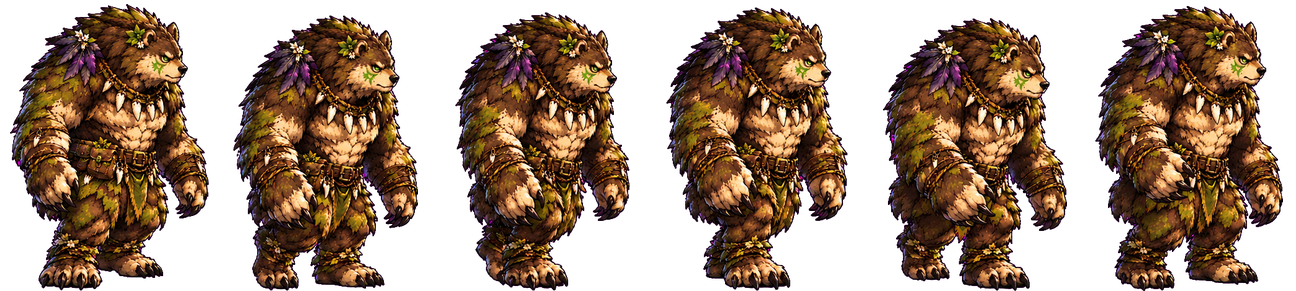
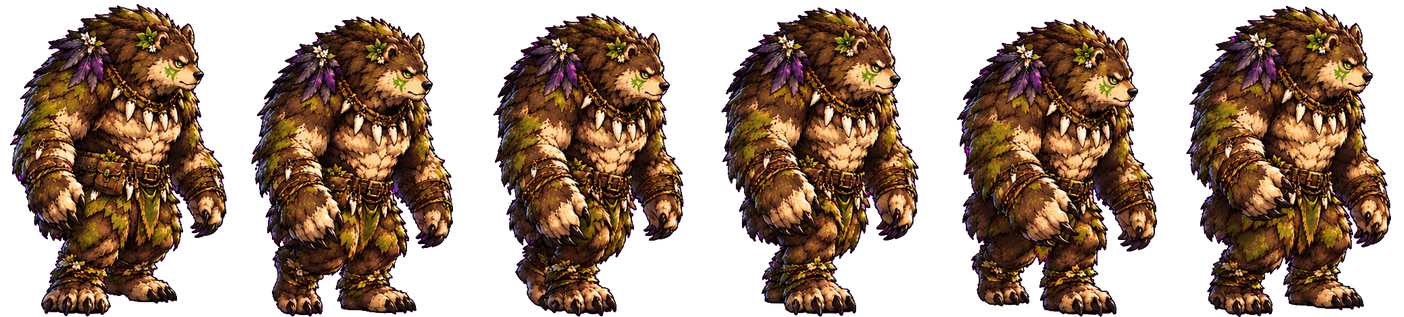
v0.2.0.0077: 곰·늑대인간 대기/걷기/공격 크기 일관성 수정 (수치 변경 없음)
Claude-Session: https://claude.ai/code/session_01XgMamwA2MFesNFKDoCmsPA

diff --git a/index.html b/index.html
@@ -423,7 +423,7 @@ body.hud-norank #dmgRank,body.hud-nocombo #combo,body.hud-nolvpen #lvPen{display
   </div>
 
   <section class="screen" id="sTitle">
-    <div class="ver" id="verT">v0.2.0.0076</div>
+    <div class="ver" id="verT">v0.2.0.0077</div>
     <button class="gearT" id="bSet" aria-label="설정">⚙</button>
     <div class="eyebrow">DARK GUARDIAN</div>
     <h1>어둠의 수호자</h1>
@@ -3370,7 +3370,7 @@ function drawPlayer(o,isMe,t){
   ctx.fillStyle='rgba(0,0,0,.4)';ctx.beginPath();ctx.ellipse(o.x+2,o.y+12*PS*.8,17*PS*.8,8*PS*.8,0,0,6.283);ctx.fill();
   if(tier>=3){ const g=ctx.createRadialGradient(x,y,6,x,y,40); g.addColorStop(0,'rgba(255,225,130,.45)'); g.addColorStop(1,'rgba(255,225,130,0)'); ctx.fillStyle=g; ctx.beginPath(); ctx.arc(x,y,40+Math.sin(t*3)*2,0,6.283); ctx.fill(); }
   if(isMe&&me.buffs.barrier&&me.buffs.barrier.t>0&&fxAtlas())fxFrame(5,Math.floor(t*8)%4,x,y+2,84,84,0,Math.min(1,me.buffs.barrier.t*2)*.55);
-  const fm=o.cls==='druid'?formOf(o):'', hk=fm?'druid_'+fm:o.cls, hh=fm==='bear'?96:fm==='wolf'?84:78;
+  const fm=o.cls==='druid'?formOf(o):'', hk=fm?'druid_'+fm:o.cls, hh=fm==='bear'?104:fm==='wolf'?84:78;
   const HS=sprGet('hero_'+hk), WC=WALKS[hk], WK=(WC&&HS)?sprGet('hero_'+hk+'_walk'):null;
   if(HS){ const A=heroAnim(o,t,meleeOf(o),WK?.4:1);
     if(WK){ if(A.wa>.35)o._wkOn=true; else if(A.wa<.15)o._wkOn=false; }   /* 걷기 시트 ↔ 대기 그림 전환 (깜빡임 방지용 히스테리시스) */
